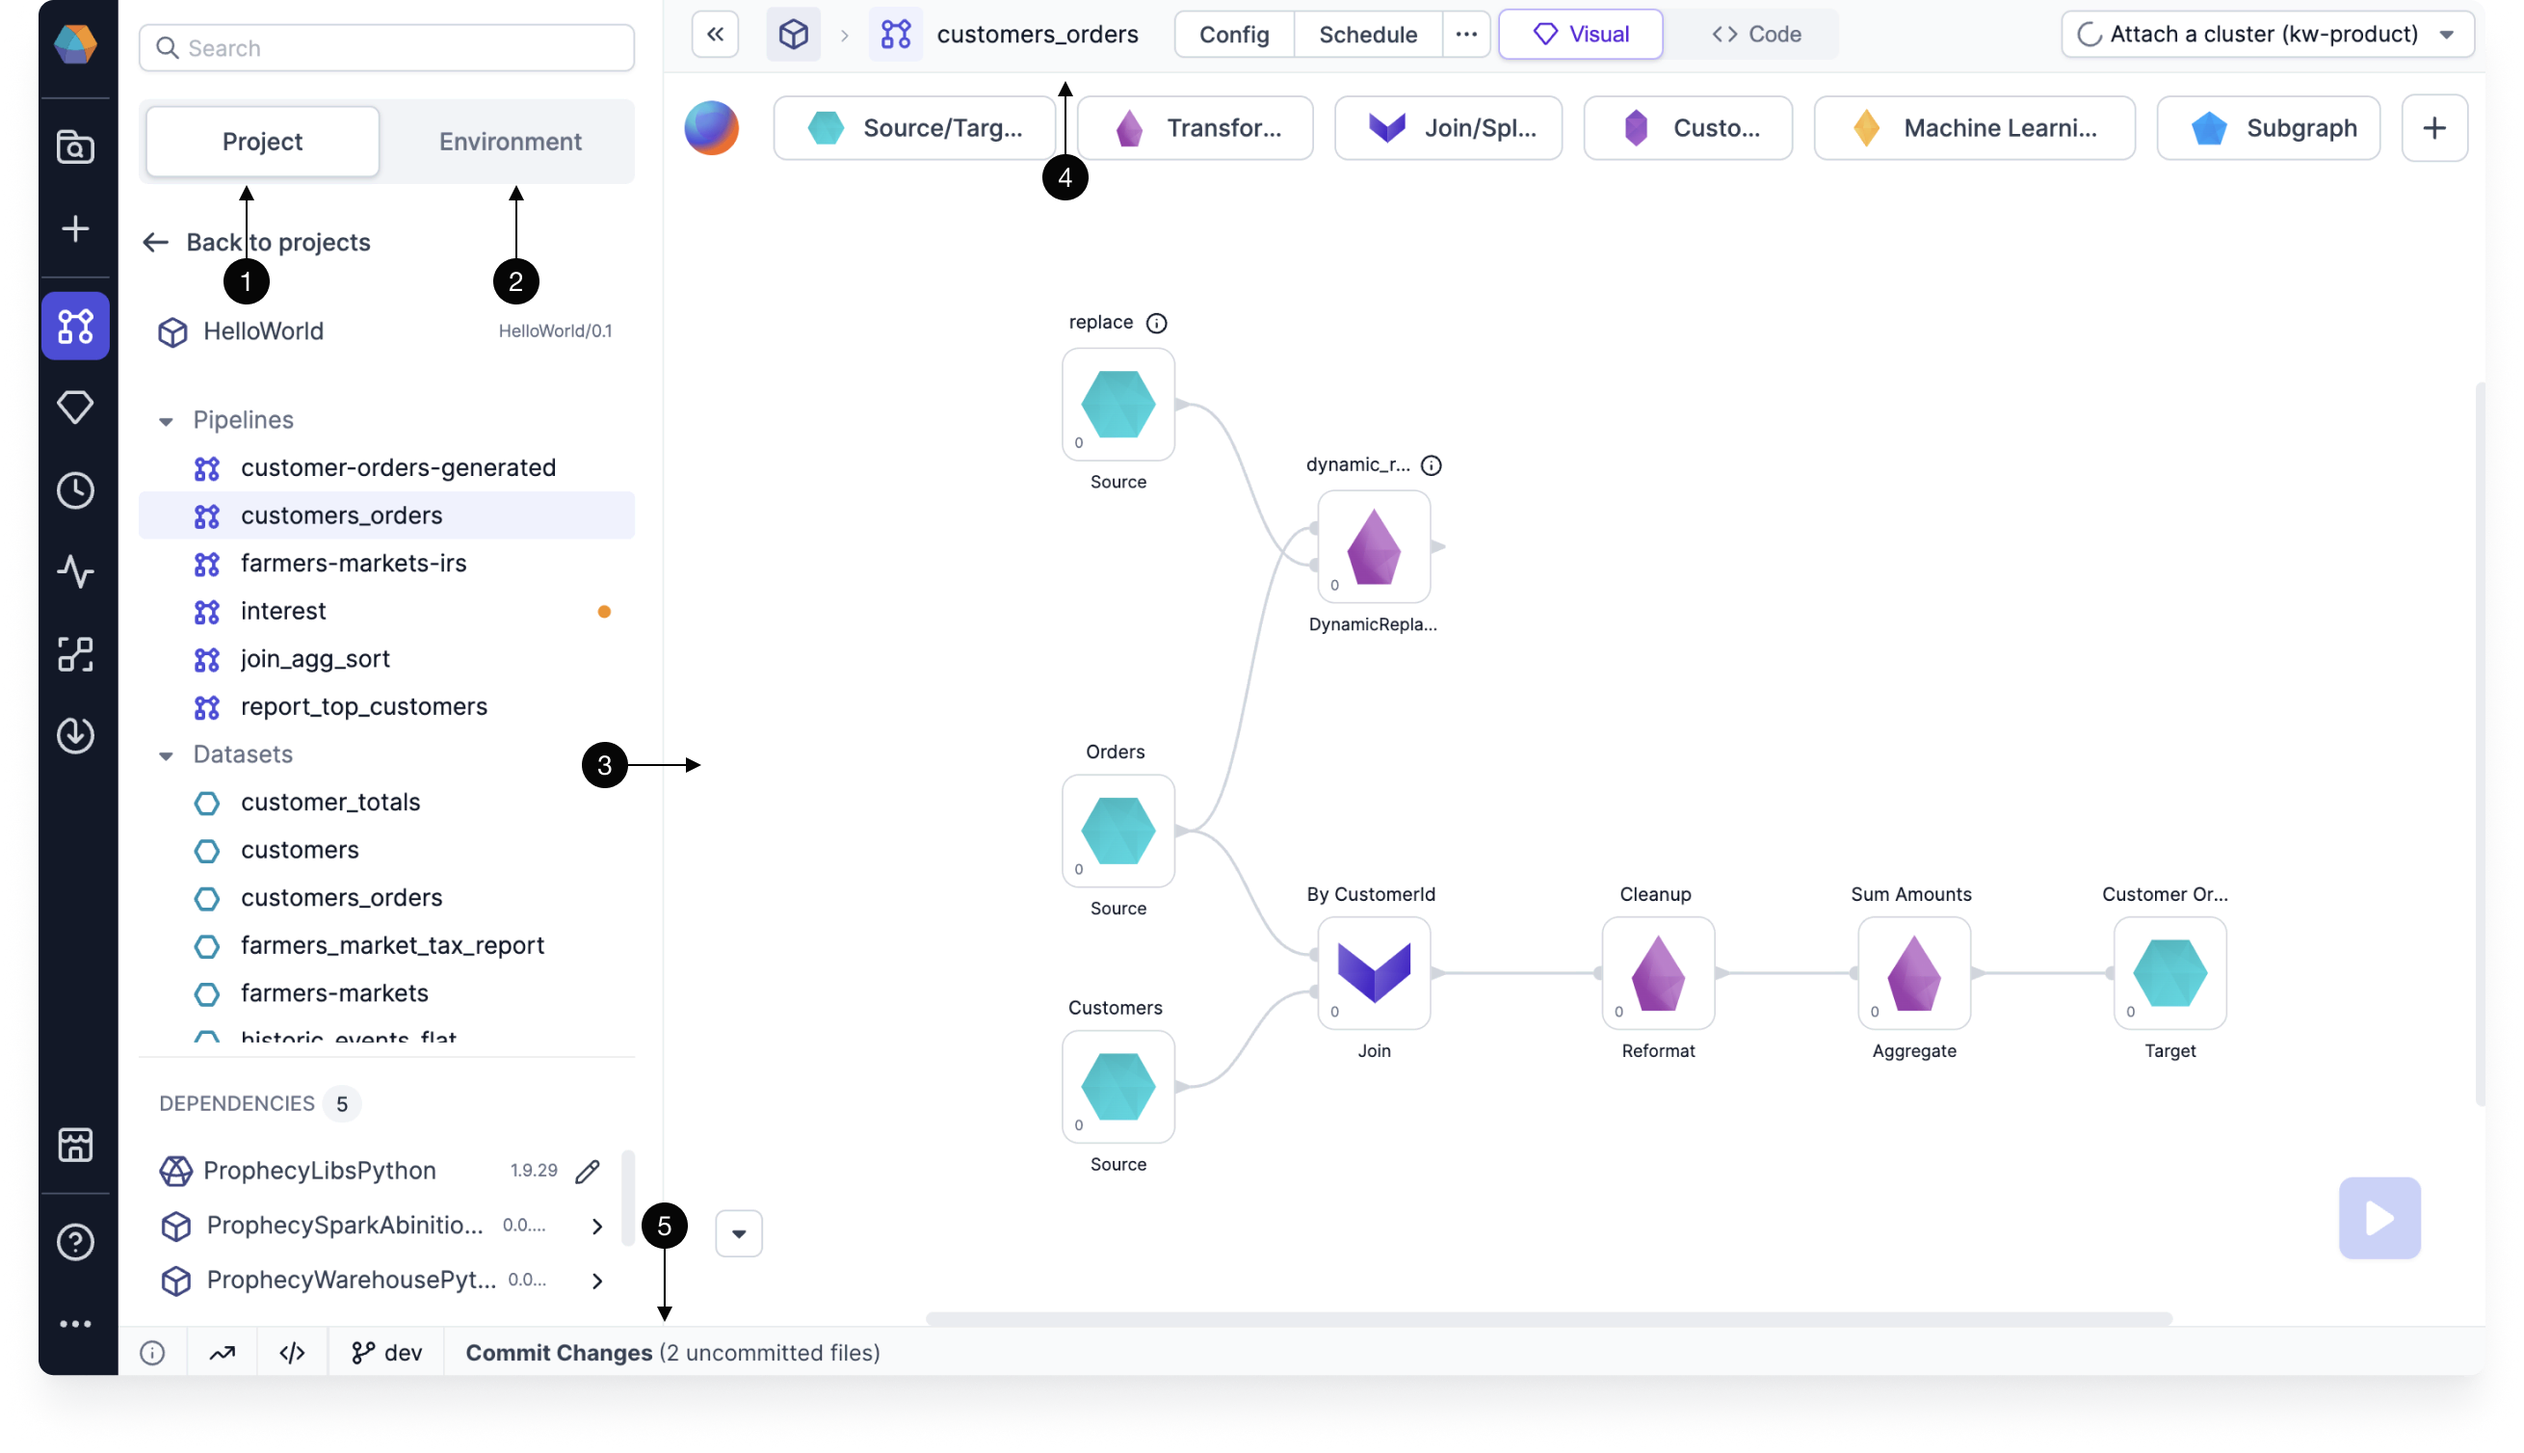
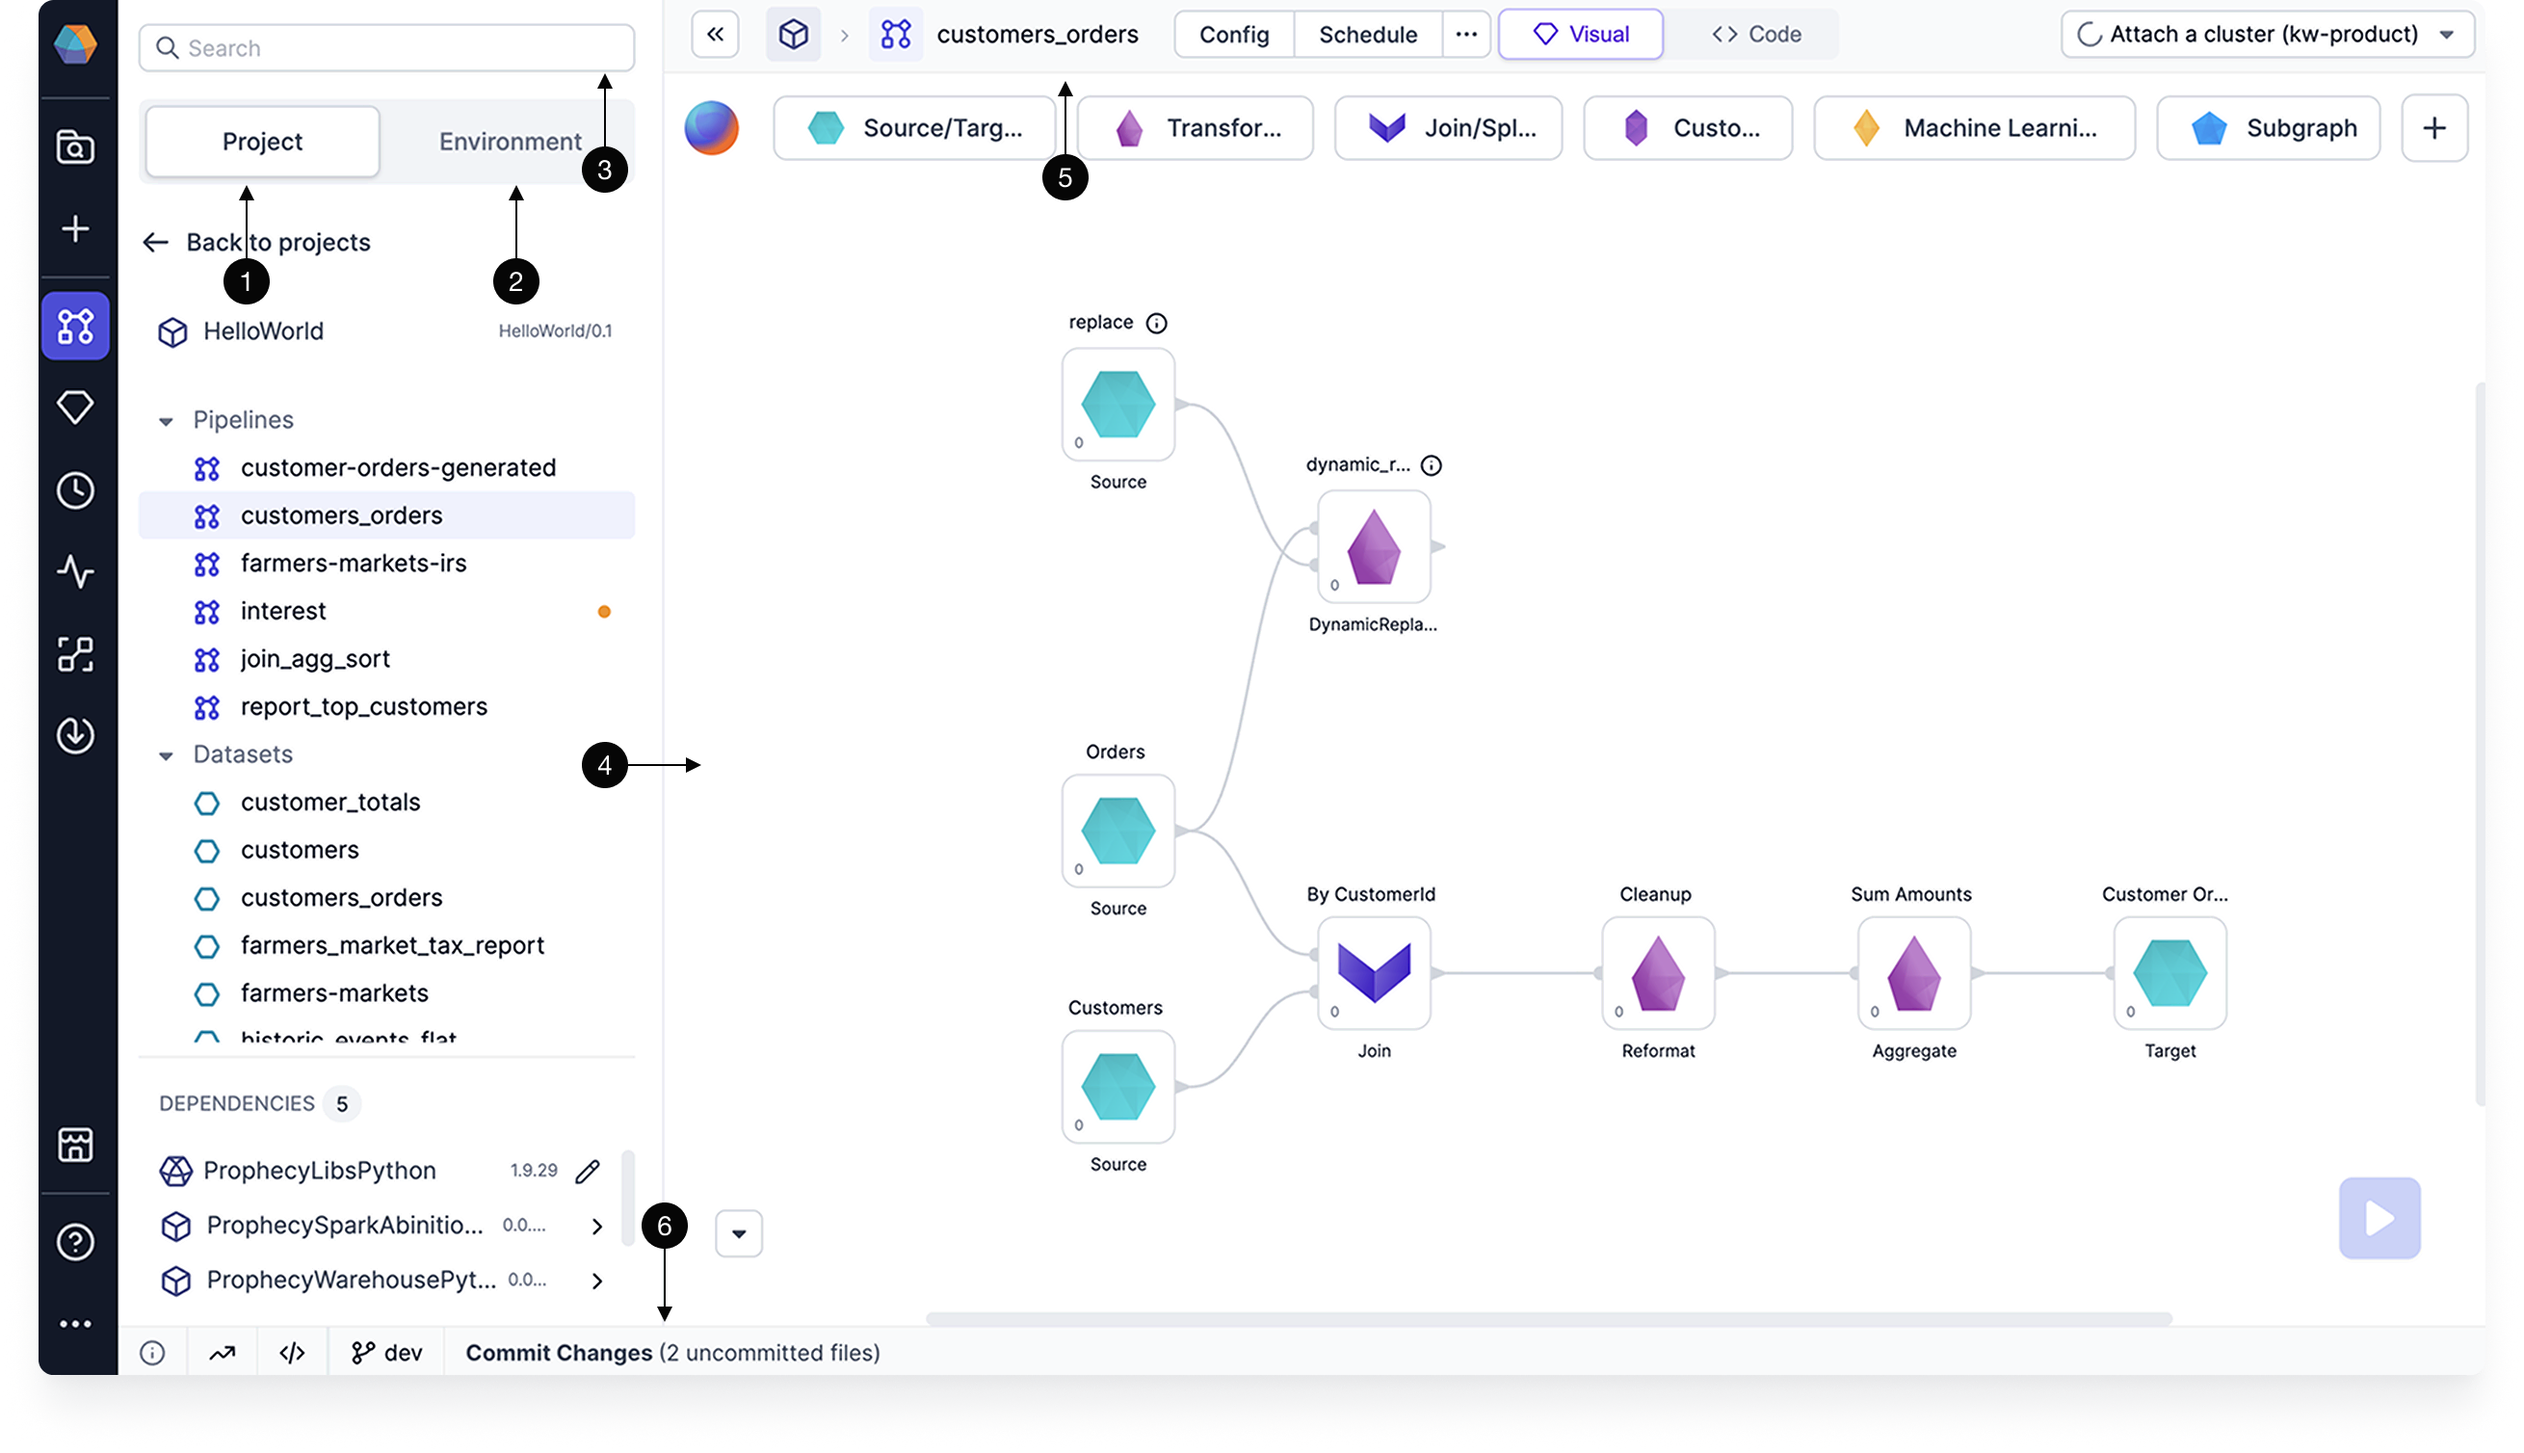
Add search info to project editor (#577)

Changed region(s): [[0.2164, 0.0935, 0.2473, 0.1247], [0.0309, 0.2182, 0.0618, 0.2493]]

diff --git a/docs/concepts/project/project.md b/docs/concepts/project/project.md
@@ -8,7 +8,7 @@ tags:
   - project
 ---
 
-A **Project** in Prophecy is the core unit for developing, organizing, and deploying data workflows to production. It encompasses all the components needed for building and running data processes.
+A **project** in Prophecy is the core unit for developing, organizing, and deploying data workflows to production. It encompasses all the components needed for building and running data processes.
 
 Spark projects contain [pipelines](docs/concepts/project/pipelines.md), [datasets](docs/concepts/project/dataset.md), and [jobs](docs/Orchestration/Orchestration.md). SQL projects contain [models](docs/concepts/project/models.md), [datasets](docs/concepts/project/dataset.md), and [jobs](docs/Orchestration/Orchestration.md).
 
@@ -36,9 +36,10 @@ Once you have created a project, you should get familiar with the Project Editor
 | ------- | --------------- | ----------------------------------------------------------------------------------------------------------------------------------------------------------------------------------------------------------------- |
 | 1       | Project tab     | A list in the left sidebar that shows all of the project components. When in code view, this project tab shows the file directory with the code components.                                                       |
 | 2       | Environment tab | A list in the left sidebar that lets you browse different assets in your connected execution environment. For example, you can browse the Unity Catalog if you are attached to a Databricks fabric.               |
-| 3       | Canvas          | The area in the center of the project where you build your pipelines visually.                                                                                                                                    |
-| 4       | Header          | A menu that includes various configurations such as project settings, dependency management, cluster attachment, scheduling, and more. It also provides a toggle to switch between the Visual view and Code view. |
-| 5       | Footer          | A menu that includes diagnostic information, execution metrics, execution code, and the Git workflow.                                                                                                             |
+| 3       | Search          | A search that lets you find different components like gems in your project and pipelines.                                                                                                                         |
+| 4       | Canvas          | The area in the center of the project where you build your pipelines visually.                                                                                                                                    |
+| 5       | Header          | A menu that includes various configurations such as project settings, dependency management, cluster attachment, scheduling, and more. It also provides a toggle to switch between the Visual view and Code view. |
+| 6       | Footer          | A menu that includes diagnostic information, execution metrics, execution code, and the Git workflow.                                                                                                             |
 
 See these components marked in the image below.
 
@@ -56,16 +57,16 @@ All projects that are shared with you are visible in the **Projects** tab of the
 
 The following table describes the information that you can find in each tab of an individual project's metadata.
 
-| Tab                        | Description                                                                                                                                                                                                                                         |
-| -------------------------- | --------------------------------------------------------------------------------------------------------------------------------------------------------------------------------------------------------------------------------------------------- |
-| **About**                  | Provides a high-level overview of your project, including space for an in-depth description for collaboration and transparency.                                                                                                                     |
-| **Content**                | Lets you search for entities within the project, such as pipelines, jobs, datasets, and more depending on your project type.                                                                                                                        |
-| **Dependencies**           | Displays the [dependencies](docs/extensibility/dependencies/spark-dependencies.md) that exist in the project, including [packages](docs/extensibility/package-hub/package-hub.md). Dependencies enable projects to reuse logic from other projects. |
-| **Commits**                | Shows the current Git state of the project and provides the option for you to commit, merge, and release changes.                                                                                                                                   |
-| **Releases & Deployments** | Includes the history of [released projects and deployed jobs](docs/ci-cd/deployment/deployment.md).                                                                                                                                                 |
-| **Code**                   | Links to the external Git if present.                                                                                                                                                                                                               |
-| **Access**                 | Lets you publish the project to the Package Hub or invite other teams to view your project (read-only).                                                                                                                                             |
-| **Settings**               | Provides different configuration options for building, changing, and deploying your project.                                                                                                                                                        |
+| Tab                    | Description                                                                                                                                                                        |
+| ---------------------- | ---------------------------------------------------------------------------------------------------------------------------------------------------------------------------------- |
+| About                  | Provides an overview of your project and space for an in-depth description of the project.                                                                                         |
+| Content                | Lets you search for entities within the project like pipelines and jobs depending on your project type.                                                                            |
+| Dependencies           | Displays the [dependencies](docs/extensibility/dependencies/spark-dependencies.md) that exist in the project, including [packages](docs/extensibility/package-hub/package-hub.md). |
+| Commits                | Shows the current Git state of the project and provides the option for you to commit, merge, and release changes.                                                                  |
+| Releases & Deployments | Includes the history of [released projects and deployed jobs](docs/ci-cd/deployment/deployment.md).                                                                                |
+| Code                   | Links to the external Git if present.                                                                                                                                              |
+| Access                 | Lets you invite teams to use your project via the [Package Hub](docs/extensibility/package-hub/package-hub.md).                                                                    |
+| Settings               | Provides different configuration options for building, changing, and deploying your project.                                                                                       |
 
 ## What's next
 
